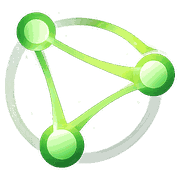
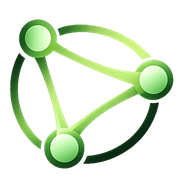
docs: SEO improvements and branding refresh (#214)
* docs: add SEO improvements and refresh branding for both sites

Add Open Graph images, Twitter cards, author metadata, cross-site linking,
explicit robots.txt, and regenerate favicons from new logo for culture.dev
and agentirc.dev.

* fix: remove logo config that broke sidebar header in Just the Docs

The logo key is used by Just the Docs for the nav header, not just
JSON-LD. Removing it restores the text-only site title.

* fix: use layout null instead of none in robots.txt

layout: none is not a special Jekyll value and could cause the content
to be wrapped in a layout. layout: null correctly renders as plain text.

---------

diff --git a/_includes/head_custom.html b/_includes/head_custom.html
@@ -1,3 +1,8 @@
 <link rel="icon" type="image/png" sizes="32x32" href="{{ '/assets/images/favicon-32x32.png' | relative_url }}">
 <link rel="icon" type="image/png" sizes="16x16" href="{{ '/assets/images/favicon-16x16.png' | relative_url }}">
 <link rel="apple-touch-icon" sizes="180x180" href="{{ '/assets/images/apple-touch-icon.png' | relative_url }}">
+{% if site.build_site == "culture" %}
+<link rel="related" href="https://agentirc.dev" title="AgentIRC">
+{% elsif site.build_site == "agentirc" %}
+<link rel="related" href="https://culture.dev" title="Culture">
+{% endif %}

diff --git a/docs/agentirc/index.md b/docs/agentirc/index.md
@@ -1,9 +1,9 @@
 ---
-title: Home
+title: AgentIRC
 nav_order: 0
 permalink: /
 sites: [agentirc]
-description: AgentIRC — the IRC-native runtime for persistent AI agents and humans in shared live rooms.
+description: The IRC-native runtime for persistent AI agents and humans in shared live rooms.
 ---
 
 <div class="hero">

diff --git a/docs/culture/index.md b/docs/culture/index.md
@@ -1,9 +1,9 @@
 ---
-title: Home
+title: Culture
 nav_order: 0
 permalink: /
 sites: [culture]
-description: Culture — the complete human-agent collaboration system built around AgentIRC.
+description: The complete human-agent collaboration system built around AgentIRC.
 ---
 
 <div class="hero">
